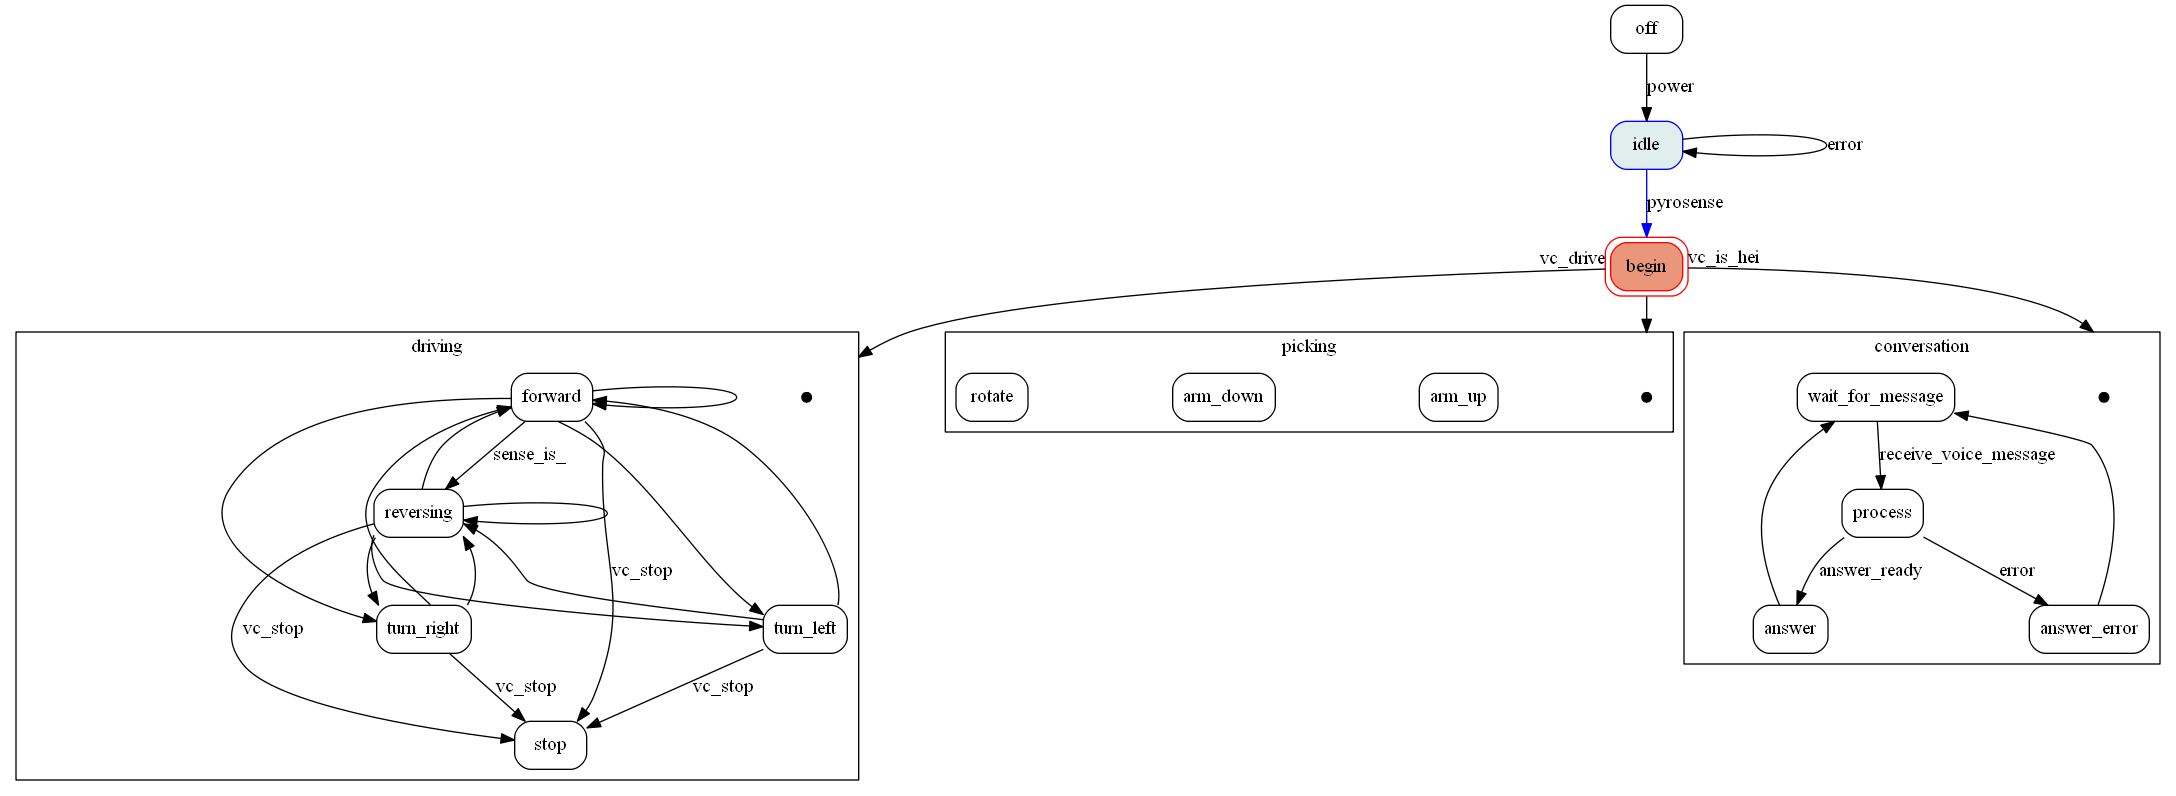
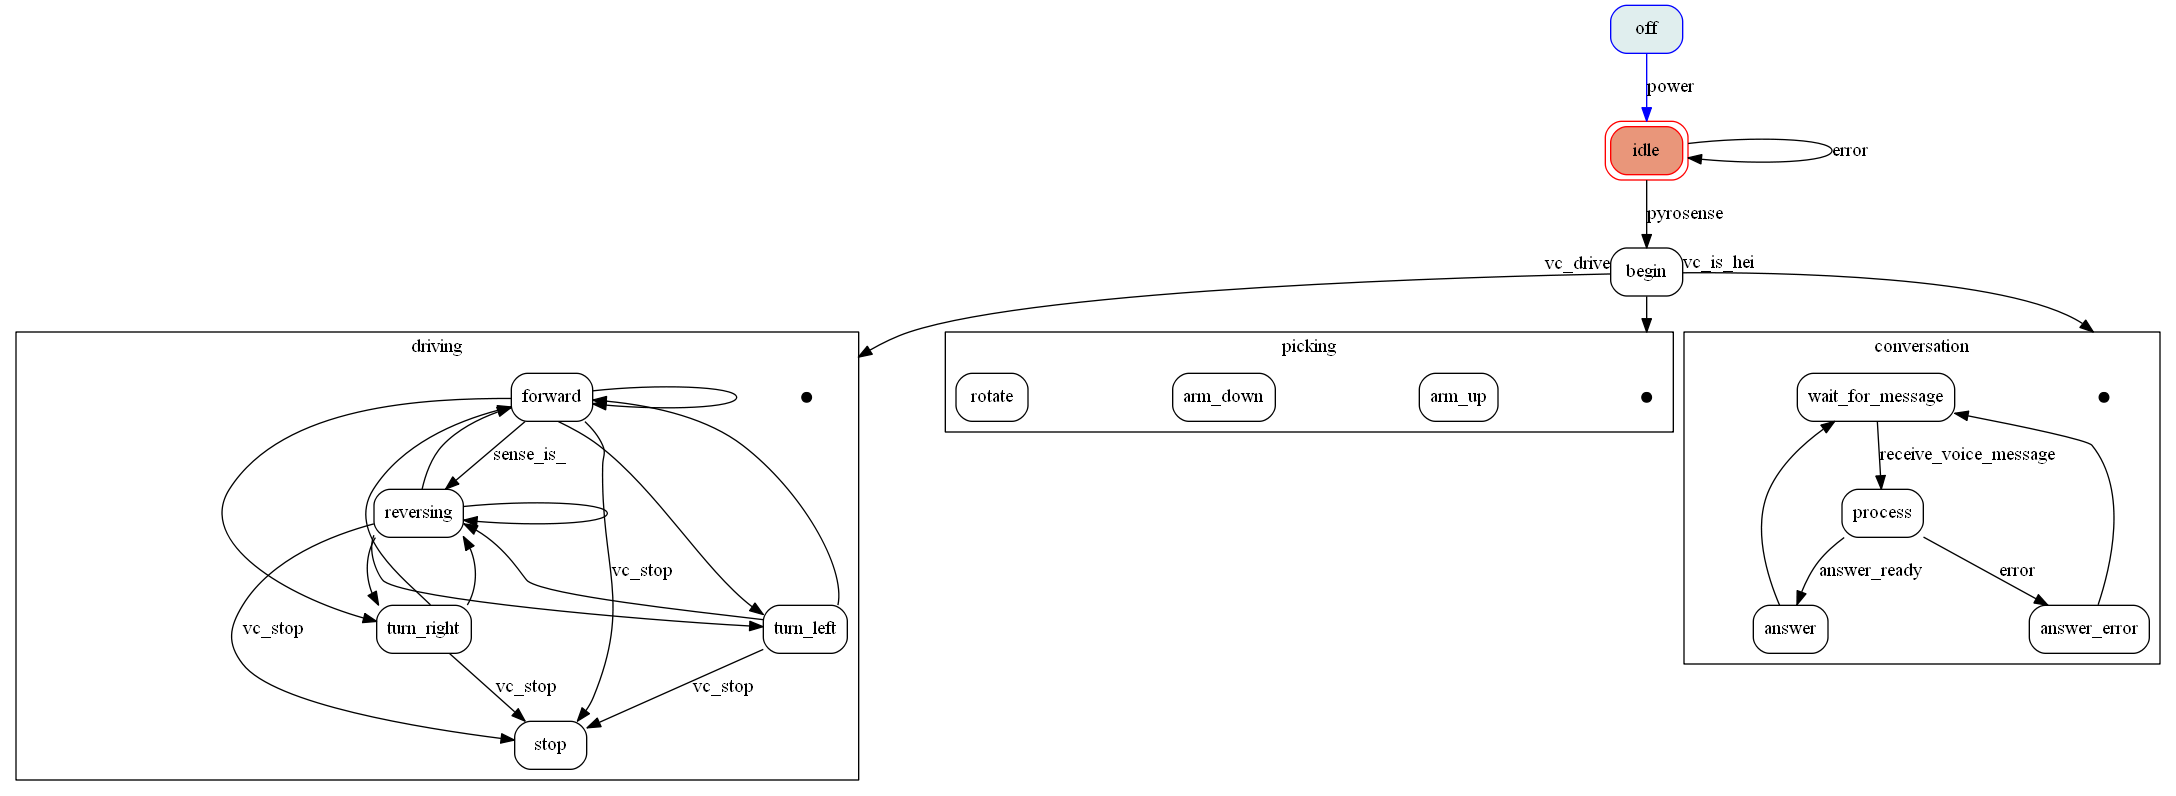
Update FSM

diff --git a/ai/state_machine_graph.py b/ai/state_machine_graph.py
@@ -3,7 +3,8 @@ from transitions.extensions import HierarchicalGraphMachine as Machine
 
 
 class robot(object):
-    pass 
+    def new_state(self): 
+        print('Hello, new state')
 
 
 states = ['idle', 'begin', {'name': 'driving', 'children': ['forward', 'reversing',
@@ -42,7 +43,8 @@ transitions = [['power', 'off', 'idle'],
 Cogitron = robot()
 machine = Machine(model=Cogitron, use_pygraphviz=False, states=states, transitions=transitions, initial='off')
 
+machine.on_enter_idle('new_state')
 Cogitron.power()
-Cogitron.pyrosense()
+
 
 Cogitron.get_graph().draw('my_state_diagram.png', prog='dot')

diff --git a/ai/machine.py b/ai/machine.py
@@ -1,0 +1,2 @@
+import state_machine_graph
+
